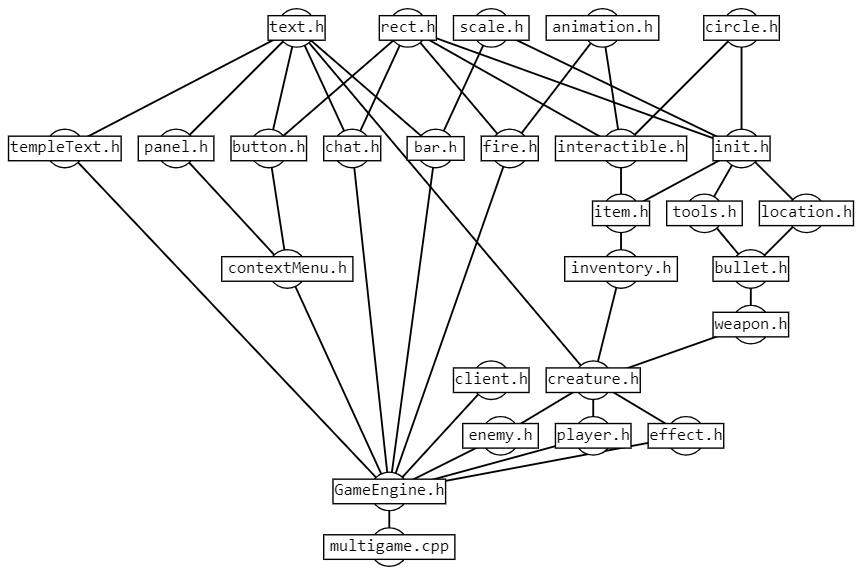
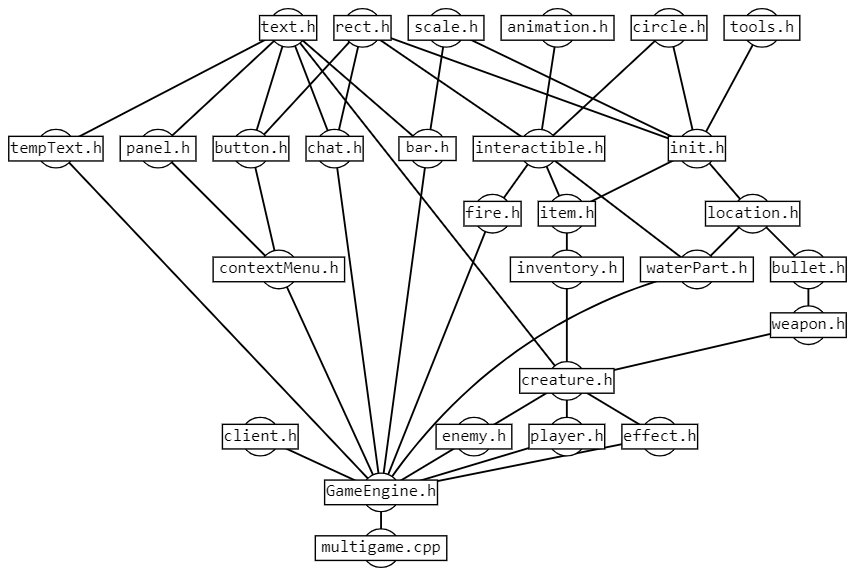
изменил название файла обновил зависимости и наследования WillCollisionWithWalls теперь в location.h увеличил скорость игрока

diff --git a/Headers/tools.h b/Headers/tools.h
@@ -1,5 +1,8 @@
 #pragma once
-#include "init.h"
+#include "../SFML-2.5.1/include/SFML/Network.hpp"
+#include "../SFML-2.5.1/include/SFML/Graphics.hpp"
+#define _USE_MATH_DEFINES
+#include <cmath>
 
 void CreateImage() {
     sf::Image img, res;
@@ -27,51 +30,6 @@ bool DeleteFromVector(std::vector<T>& arr, T x) {
             return true;
         }
     return false;
-}
-
-// {x = 1, y = -1} => collision at the y, up or down doesn't matter, because u know "dy" already
-template <typename Obj>
-sf::Vector2i WillCollisionWithWalls(vvr& Walls, Obj& obj, sf::Vector2f Velocity) {
-    int y = int(obj.PosY) / size, x = int(obj.PosX) / size;
-    sf::Vector2i res = {-1, -1};
-
-    obj.PosY += Velocity.y;
-    if (Velocity.y < 0) {
-        if ((y * 2 - 1 < 0 || !Walls[y * 2 - 1][x].intersect(obj)) &&
-            (!Walls[y * 2][x].intersect(obj)) &&
-            (y * 2 - 1 < 0 || !Walls[y * 2 - 1][x + 1].intersect(obj)) &&
-            (x + 1 >= Walls[0].size() || !Walls[y * 2][x + 1].intersect(obj)) &&
-            (x - 1 < 0 || !Walls[y * 2][x - 1].intersect(obj)))
-            res.y = 1;
-    }
-    if (Velocity.y > 0) {
-        if ((y * 2 + 3 >= Walls.size() || !Walls[y * 2 + 3][x].intersect(obj)) &&
-            (!Walls[y * 2 + 2][x].intersect(obj)) &&
-            (y * 2 + 3 >= Walls.size() || !Walls[y * 2 + 3][x + 1].intersect(obj)) &&
-            (x + 1 >= Walls[0].size() || !Walls[y * 2 + 2][x + 1].intersect(obj)) &&
-            (x - 1 < 0 || !Walls[y * 2 + 2][x - 1].intersect(obj)))
-            res.y = 1;
-    }
-    obj.PosY -= Velocity.y;
-    obj.PosX += Velocity.x;
-    if (Velocity.x < 0) {
-        if ((x - 1 < 0 || !Walls[y * 2][x - 1].intersect(obj)) &&
-            (!Walls[y * 2 + 1][x].intersect(obj)) &&
-            (x - 1 < 0 || !Walls[y * 2 + 2][x - 1].intersect(obj)) &&
-            (y * 2 + 3 >= Walls.size() || !Walls[y * 2 + 3][x].intersect(obj)) &&
-            (y * 2 - 1 < 0 || !Walls[y * 2 - 1][x].intersect(obj)))
-            res.x = 1;
-    }
-    if (Velocity.x > 0) {
-        if ((x + 1 >= Walls[0].size() || !Walls[y * 2][x + 1].intersect(obj)) &&
-            (!Walls[y * 2 + 1][x + 1].intersect(obj)) &&
-            (x + 1 >= Walls[0].size() || !Walls[y * 2 + 2][x + 1].intersect(obj)) &&
-            (y * 2 + 3 >= Walls.size() || !Walls[y * 2 + 3][x + 1].intersect(obj)) &&
-            (y * 2 - 1 < 0 || !Walls[y * 2 - 1][x + 1].intersect(obj)))
-            res.x = 1;
-    }
-    obj.PosX -= Velocity.x;
-    return res;  // if value of vector == -1 => there was collision
 }
 
 void RotateOn(float phi, float& x, float& y) {

diff --git a/Headers/location.h b/Headers/location.h
@@ -386,6 +386,51 @@ void FindAllWaysTo(Location* location, sf::Vector2f to, std::vector<std::vector<
         theWays[check.y][check.x] = to;
 }
 
+// {x = 1, y = -1} => collision at the y, up or down doesn't matter, because u know "dy" already
+template <typename Obj>
+sf::Vector2i WillCollisionWithWalls(vvr& Walls, Obj& obj, sf::Vector2f Velocity) {
+    int y = int(obj.PosY) / size, x = int(obj.PosX) / size;
+    sf::Vector2i res = {-1, -1};
+
+    obj.PosY += Velocity.y;
+    if (Velocity.y < 0) {
+        if ((y * 2 - 1 < 0 || !Walls[y * 2 - 1][x].intersect(obj)) &&
+            (!Walls[y * 2][x].intersect(obj)) &&
+            (y * 2 - 1 < 0 || !Walls[y * 2 - 1][x + 1].intersect(obj)) &&
+            (x + 1 >= Walls[0].size() || !Walls[y * 2][x + 1].intersect(obj)) &&
+            (x - 1 < 0 || !Walls[y * 2][x - 1].intersect(obj)))
+            res.y = 1;
+    }
+    if (Velocity.y > 0) {
+        if ((y * 2 + 3 >= Walls.size() || !Walls[y * 2 + 3][x].intersect(obj)) &&
+            (!Walls[y * 2 + 2][x].intersect(obj)) &&
+            (y * 2 + 3 >= Walls.size() || !Walls[y * 2 + 3][x + 1].intersect(obj)) &&
+            (x + 1 >= Walls[0].size() || !Walls[y * 2 + 2][x + 1].intersect(obj)) &&
+            (x - 1 < 0 || !Walls[y * 2 + 2][x - 1].intersect(obj)))
+            res.y = 1;
+    }
+    obj.PosY -= Velocity.y;
+    obj.PosX += Velocity.x;
+    if (Velocity.x < 0) {
+        if ((x - 1 < 0 || !Walls[y * 2][x - 1].intersect(obj)) &&
+            (!Walls[y * 2 + 1][x].intersect(obj)) &&
+            (x - 1 < 0 || !Walls[y * 2 + 2][x - 1].intersect(obj)) &&
+            (y * 2 + 3 >= Walls.size() || !Walls[y * 2 + 3][x].intersect(obj)) &&
+            (y * 2 - 1 < 0 || !Walls[y * 2 - 1][x].intersect(obj)))
+            res.x = 1;
+    }
+    if (Velocity.x > 0) {
+        if ((x + 1 >= Walls[0].size() || !Walls[y * 2][x + 1].intersect(obj)) &&
+            (!Walls[y * 2 + 1][x + 1].intersect(obj)) &&
+            (x + 1 >= Walls[0].size() || !Walls[y * 2 + 2][x + 1].intersect(obj)) &&
+            (y * 2 + 3 >= Walls.size() || !Walls[y * 2 + 3][x + 1].intersect(obj)) &&
+            (y * 2 - 1 < 0 || !Walls[y * 2 - 1][x + 1].intersect(obj)))
+            res.x = 1;
+    }
+    obj.PosX -= Velocity.x;
+    return res;  // if value of vector == -1 => there was collision
+}
+
 ////////////////////////////////////////////////////////////
 // perhaps unusable code, but usefull for future
 ////////////////////////////////////////////////////////////

diff --git a/Headers/init.h b/Headers/init.h
@@ -1,16 +1,13 @@
 #pragma once
-#include "../SFML-2.5.1/include/SFML/Network.hpp"
-#include "../SFML-2.5.1/include/SFML/Graphics.hpp"
+#include "tools.h"
+#include "scale.h"
+#include "rect.h"
+#include "circle.h"
 #include "../SFML-2.5.1/include/SFML/Audio.hpp"
 #include <vector>
 #include <map>
 #include <set>
 #include <ctime>
-#define _USE_MATH_DEFINES
-#include <cmath>
-#include "scale.h"
-#include "rect.h"
-#include "circle.h"
 
 namespace faction {
     using Type = sf::Uint8;

diff --git a/Headers/player.h b/Headers/player.h
@@ -30,7 +30,7 @@ Player::Player() : Creature("Player", faction::Player) {
     Armor = {0.f, 0.f, 0.f};
     Money = 0.f;
     Radius = 60.f;
-    Velocity = {0.f, 0.f}; MaxVelocity = 6.f;
+    Velocity = {0.f, 0.f}; MaxVelocity = 10.f;
     Acceleration = 0.6f;
 }
 

diff --git a/Headers/GameEngine.h b/Headers/GameEngine.h
@@ -7,7 +7,7 @@
 #include "effect.h"
 #include "fire.h"
 #include "tempText.h"
-#include "waterParticle.h"
+#include "waterPart.h"
 
 //////////////////////////////////////////////////////////// Settings of the game
 bool IsDrawMinimap       = true;

diff --git a/Headers/waterPart.h b/Headers/waterPart.h
@@ -2,8 +2,6 @@
 
 #include "interactible.h"
 #include "location.h"
-#include "tools.h"
-#include "enemy.h"
 
 class WaterParticle : public Interactable {
 public:
